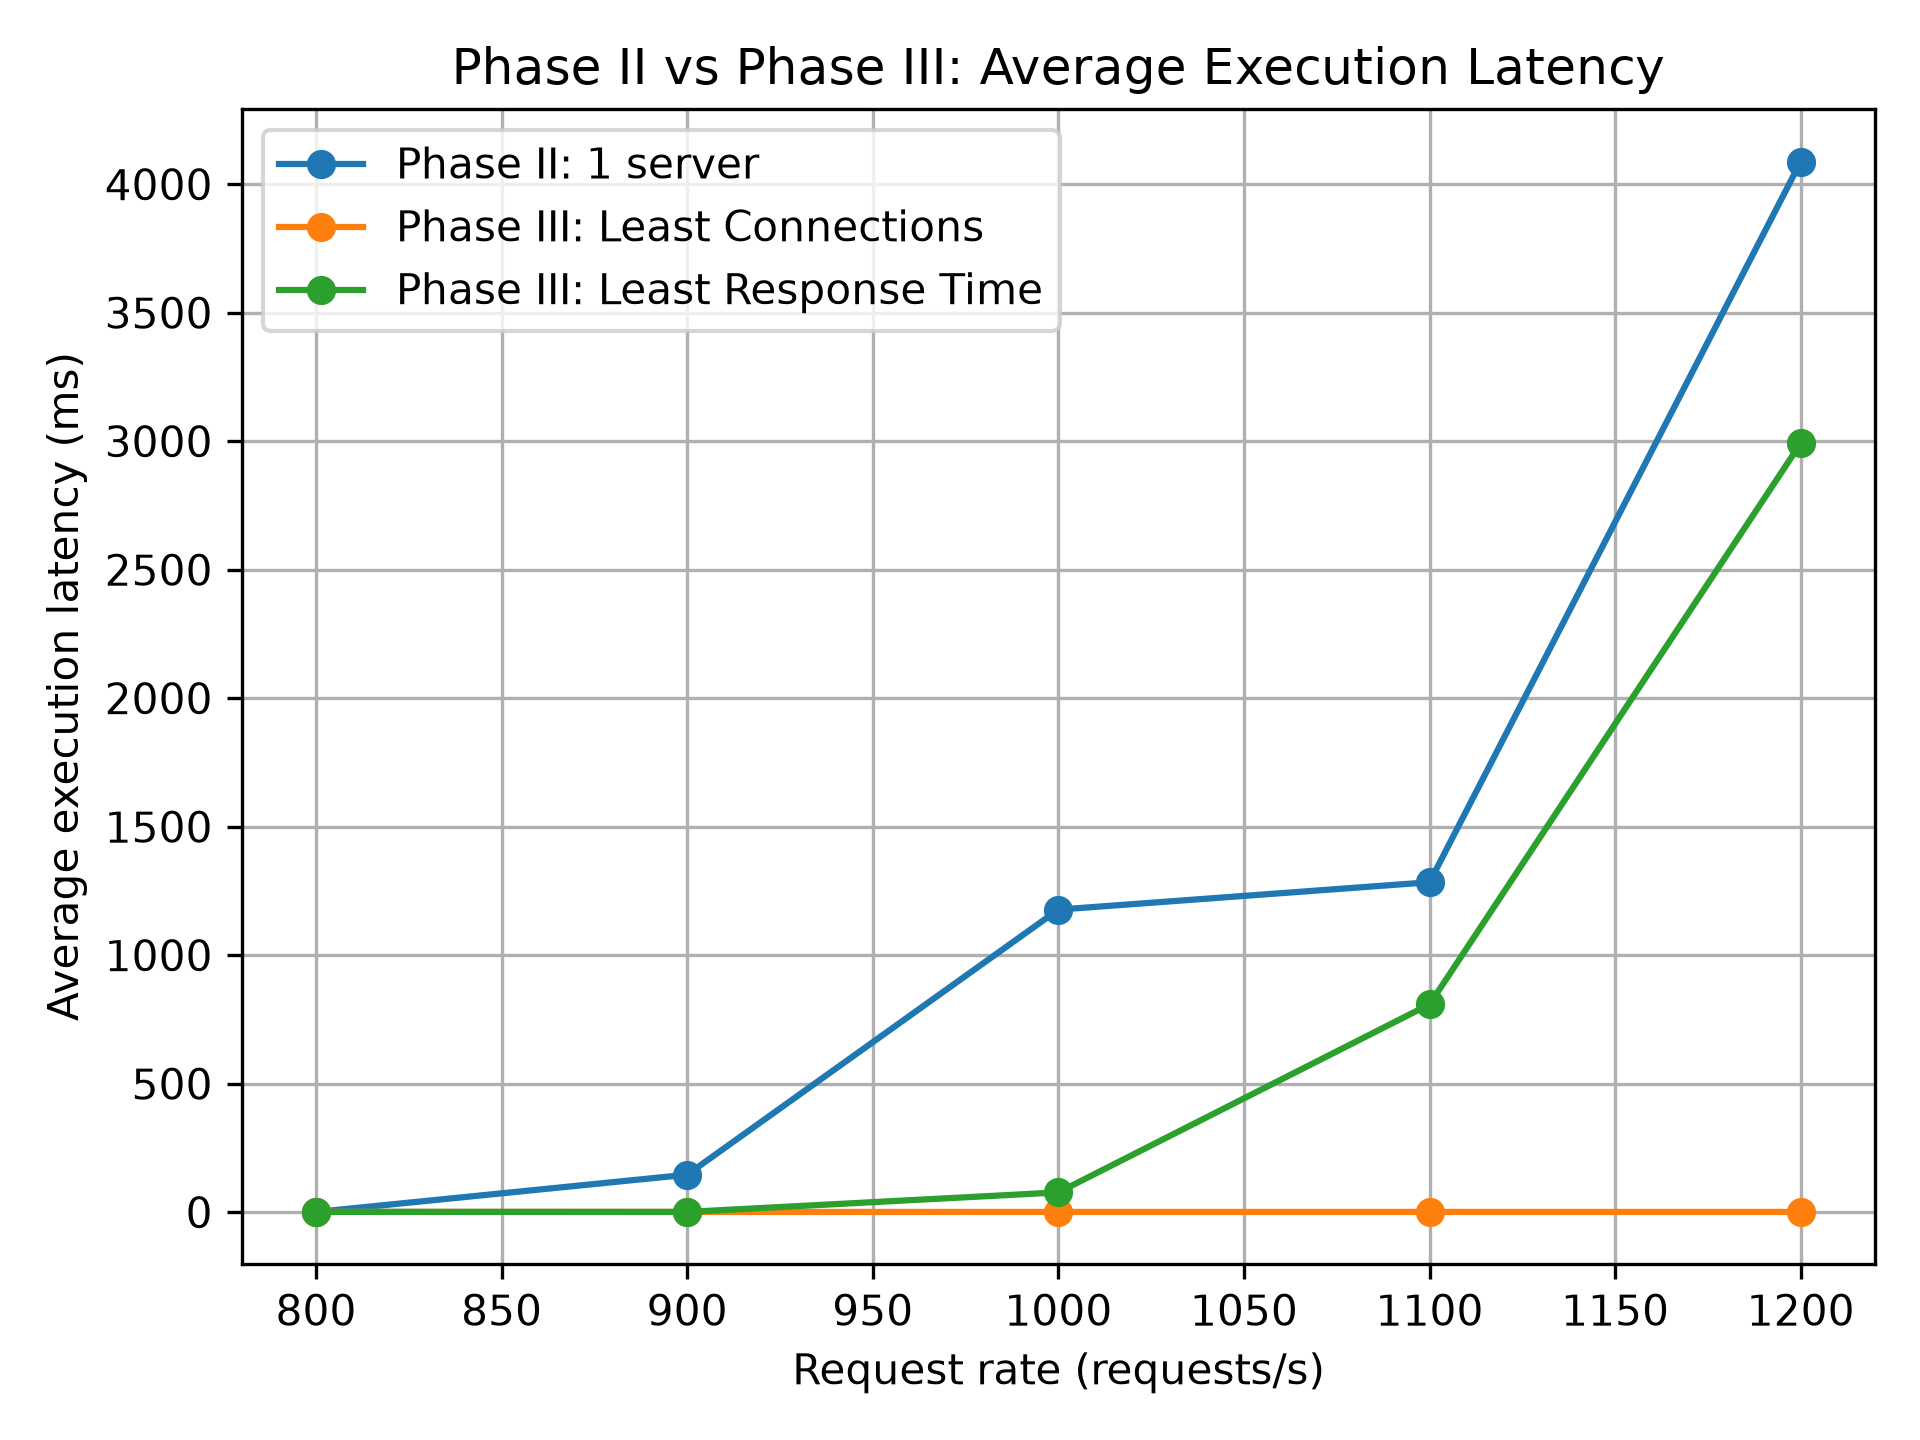
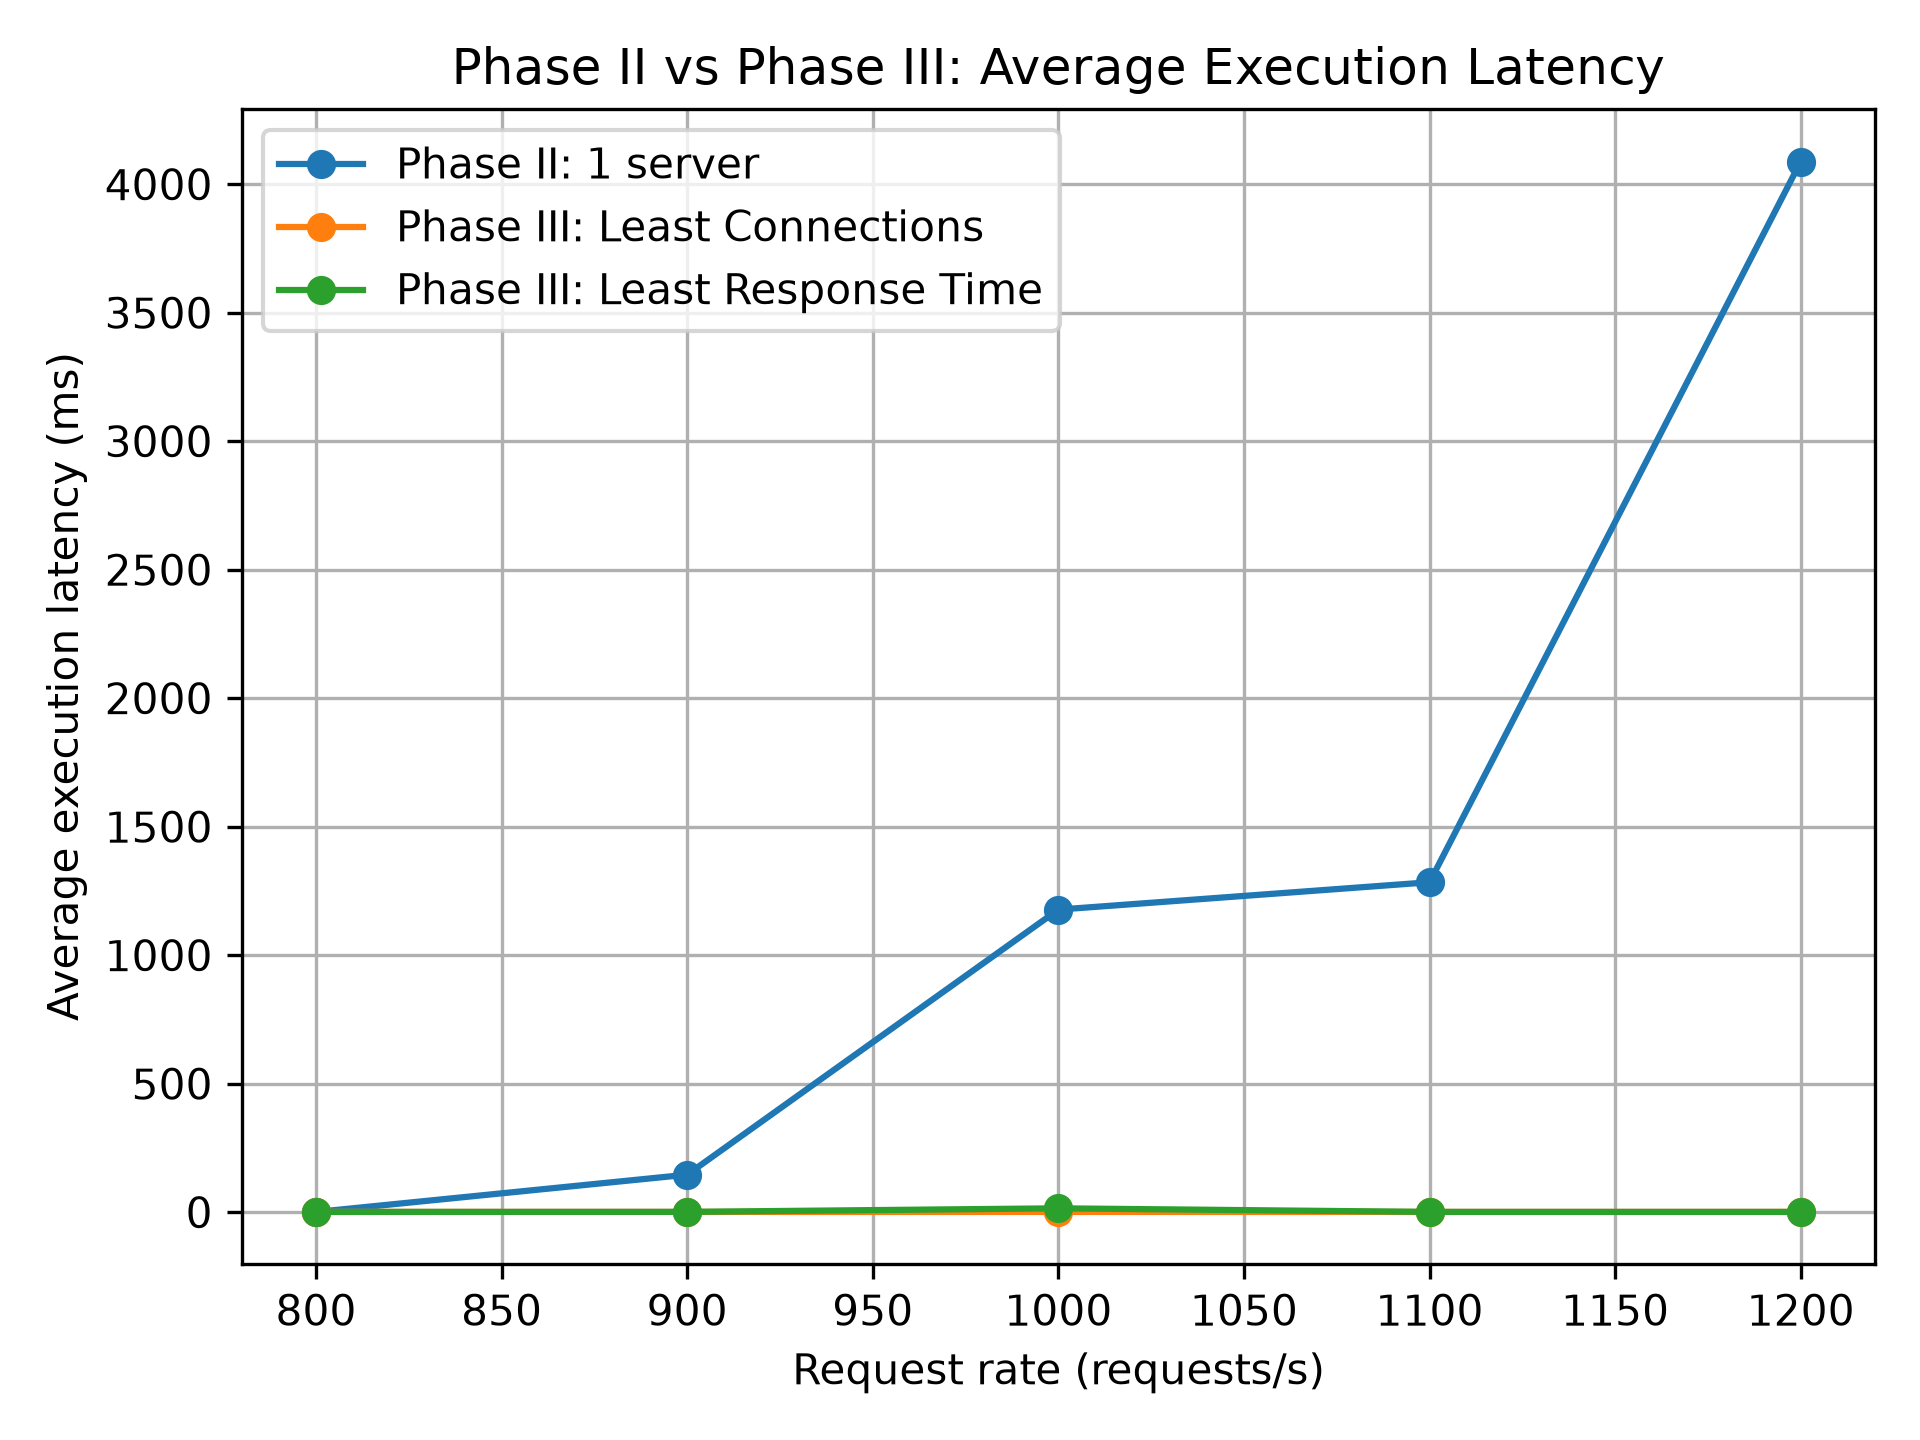
finished Phase III implementation

diff --git a/wordCount/benchmark.py b/wordCount/benchmark.py
@@ -1,3 +1,4 @@
+
 import csv
 import math
 import os
@@ -19,7 +20,7 @@ LB_ALGORITHM = os.getenv("LB_ALGORITHM", "least_connections").strip().lower()
 
 TEXT_REFERENCE = "sample2.txt"
 
-# Text file used to investigate 
+# Text file used to investigate
 LOCAL_TEXT_PATH = "texts/sample2.txt"
 
 # Request rates (requests per second)
@@ -27,13 +28,17 @@ REQUEST_RATES = [800, 900, 1000, 1100, 1200]
 
 DURATION_SECONDS = 10
 
-# Even for slow rates, want minimum number of requests 
+# Even for slow rates, want minimum number of requests
 MIN_REQUESTS = 1000
 
 # Number of RPyC connections between client and server
 NUM_CONNECTIONS = 100
 
-# Max wait time for all responses 
+# Replace one of the 100 connections every 0.05 seconds (about 20 new connections/second)
+# New connections are created in a background thread so the request sender is not delayed
+ROTATION_INTERVAL_SECONDS = 0.05
+
+# Max wait time for all responses
 RESPONSE_TIMEOUT_SECONDS = 60
 
 # "cold": every request uses a different keyword -> every request is a cache miss
@@ -42,7 +47,7 @@ CACHE_MODE = "cold"
 
 WARM_KEYWORDS = ["the", "and", "time", "it", "world", "pleasure"]
 
-# 99th percentile latency   
+# 99th percentile latency
 def percentile_99(values):
     sorted_values = sorted(values)
     index = math.ceil(0.99 * len(sorted_values)) - 1
@@ -61,7 +66,7 @@ def load_word_pool():
     if not os.path.isfile(LOCAL_TEXT_PATH): # No text file found, return empty list
         return []
 
-    # Read file, covert to lowercase, extract words, shuffle them according to seed 42
+    # Read file, convert to lowercase, extract words, shuffle them according to seed 42
     with open(LOCAL_TEXT_PATH, "r", encoding="utf-8", errors="ignore") as file:
         text = file.read().lower()
     words = sorted(set(re.findall(r"[a-z]+", text))) # set removes duplicates, sorted does alphabetical ordering
@@ -73,7 +78,6 @@ WORD_POOL = load_word_pool()
 
 # Generate a list of keywords for the experiment (according to total requests)
 def make_keywords(n):
-
     # If warm then return warm keywords repeatedly until n is reached
     if CACHE_MODE == "warm":
         return [WARM_KEYWORDS[i % len(WARM_KEYWORDS)] for i in range(n)]
@@ -85,20 +89,17 @@ def make_keywords(n):
 
 # Prewarm cache by sending requests for warm keywords beforehand
 def prewarm_cache():
-    
     connection = rpyc.connect(SERVER_HOST, SERVER_PORT)
-    for keyword in WARM_KEYWORDS:
-        connection.root.count_word(keyword, TEXT_REFERENCE)
-    connection.close()
+    try:
+        for keyword in WARM_KEYWORDS:
+            connection.root.count_word(keyword, TEXT_REFERENCE)
+    finally:
+        connection.close()
 
-# Create multiple RPyC connections to server and return them
-def open_connections(n):
-    connections = [] # List to hold RPyC connections
-    async_calls = [] # List to hold async calls to server for count_word method
-
-    for _ in range(n):
-        connection = rpyc.connect(SERVER_HOST, SERVER_PORT) # Connect to server
-        
+# Create one RPyC connection and its asynchronous call
+def open_connection():
+    connection = rpyc.connect(SERVER_HOST, SERVER_PORT) # Connect to load balancer
+    try:
         connection.ping() # Ping server
 
         # Create async call for count_word method
@@ -106,18 +107,27 @@ def open_connections(n):
 
         # Start a thread to serve all requests for this connection
         threading.Thread(target=connection.serve_all, daemon=True).start()
+        return {"connection": connection, "async_call": async_call, "pending": 0}
+    except Exception:
+        connection.close()
+        raise
 
-        # Add connection and async_call to lists
-        connections.append(connection)
-        async_calls.append(async_call)
-
-    return connections, async_calls
+# Create multiple RPyC connections to server and return them
+def open_connections(n):
+    connections = [] # List to hold RPyC connections and async calls
+    try:
+        for _ in range(n):
+            connections.append(open_connection())
+    except Exception:
+        close_connections(connections)
+        raise
+    return connections
 
 # Close all RPyC connections
 def close_connections(connections):
-    for connection in connections:
+    for slot in connections:
         try:
-            connection.close()
+            slot["connection"].close()
         except Exception:
             pass
 
@@ -125,9 +135,9 @@ def close_connections(connections):
 def run_experiment(rate):
     print()
     print("=" * 70)
-    print(f"Starting Phase III experiment: " f"{rate} requests/second")
-    print(f"Load-balancing algorithm: " f"{LB_ALGORITHM}")
-    print(f"Cache mode: " f"{CACHE_MODE}")
+    print(f"Starting Phase III experiment: {rate} requests/second")
+    print(f"Load-balancing algorithm: {LB_ALGORITHM}")
+    print(f"Cache mode: {CACHE_MODE}")
     print("=" * 70)
 
     clear_cache() # Clear Redis cache before each experiment
@@ -141,7 +151,12 @@ def run_experiment(rate):
     keywords = make_keywords(number_of_requests)
 
     # Open fresh connections to server for this experiment
-    connections, async_calls = (open_connections(NUM_CONNECTIONS))
+    connections = open_connections(NUM_CONNECTIONS)
+    retired_connections = [] # Old connections stay alive until their outstanding requests finish
+    pool_lock = threading.Lock() # Protects the current connection slots and pending counters
+    stop_rotation = threading.Event()
+    rotation_count = 0
+    rotation_errors = 0
 
     # Threads to handle replies that finish at the same time to prevent modifying writing to arrays simultaneously
     lock = threading.Lock()
@@ -151,56 +166,110 @@ def run_experiment(rate):
     completed = 0
 
     # Callback function to handle responses from server
-    def make_callback(sent_time):
-
+    def make_callback(sent_time, slot):
         # Once response arrived execute this function
         def on_response(result):
             nonlocal completed
             received_time = time.perf_counter()
+            try:
+                _ = result.value # Response (error or count)
+                latency_ms = (received_time - sent_time) * 1000
+                error = None
+            except Exception as exception:
+                latency_ms = None
+                error = str(exception)
+
+            # The old connection can now be closed if it was replaced by a new one
+            with pool_lock:
+                slot["pending"] -= 1
 
             with lock:
-                try:
-                    _ = result.value  # Response (error or count)
-                    latencies.append((received_time - sent_time) * 1000) # Calculate latency in ms
-
-                except Exception as error:
-                    error_messages.append(str(error))
-
+                if error is None:
+                    latencies.append(latency_ms) # Calculate latency in ms
+                else:
+                    error_messages.append(error)
                 completed += 1
                 if completed == number_of_requests:
                     all_done.set()
-
         return on_response
+
+    # Replace connections gradually while requests are running
+    # The request-sending loop never waits for a new connection to be established
+    def rotate_connections():
+        nonlocal rotation_count, rotation_errors
+        next_slot = 0
+
+        while not stop_rotation.wait(ROTATION_INTERVAL_SECONDS):
+            try:
+                new_slot = open_connection() # Load balancer makes a new routing decision
+            except Exception as error:
+                rotation_errors += 1
+                print(f"ROTATION ERROR | {error}")
+                continue
+
+            # Atomically replace one of the 100 available connections
+            # Any requests already sent using the old connection can still finish
+            with pool_lock:
+                old_slot = connections[next_slot]
+                connections[next_slot] = new_slot
+                retired_connections.append(old_slot)
+                next_slot = (next_slot + 1) % NUM_CONNECTIONS
+                rotation_count += 1
+
+                # Only close old connections when they have no outstanding requests
+                ready_to_close = [slot for slot in retired_connections if slot["pending"] == 0]
+                retired_connections[:] = [slot for slot in retired_connections if slot["pending"] > 0]
+
+            # Connection cleanup also runs in the background, not in the request sender
+            close_connections(ready_to_close)
 
     # Load generator
     max_lag_ms = 0.0
     start_time = time.perf_counter()
+    rotation_thread = threading.Thread(target=rotate_connections, daemon=True)
+    rotation_thread.start()
 
-    # Loop to send requests at the specified rate
-    for request_number in range(number_of_requests):
+    try:
+        # Loop to send requests at the specified rate
+        for request_number in range(number_of_requests):
+            # Calculate the target time for the next request based on the rate and the start time
+            target_time = start_time + request_number / rate
 
-        # Calculate the target time for the next request based on the rate and the start time
-        target_time = start_time + request_number / rate
+            # Calculate how long to sleep until the target time is reached
+            sleep_time = target_time - time.perf_counter()
+            if sleep_time > 0:
+                time.sleep(sleep_time)
 
-        # Calculate how long to sleep until the target time is reached
-        sleep_time = target_time - time.perf_counter()
+            # Select async call (from the 100 currently available connections)
+            # The lock ensures rotation cannot remove this connection before we mark its request as pending
+            with pool_lock:
+                slot = connections[request_number % NUM_CONNECTIONS]
+                slot["pending"] += 1
 
-        if sleep_time > 0:
-            time.sleep(sleep_time)
-        else:
-            # Client cannot keep up with requests being sent
-            max_lag_ms = max(max_lag_ms, -sleep_time * 1000)
+            # SENT: the timestamp is taken immediately before the request is written out
+            sent_time = time.perf_counter()
 
-        # Select async call (from the 1-n connections made)
-        async_call = async_calls[request_number % len(async_calls)]
+            # Measure any actual delay relative to the scheduled send time
+            max_lag_ms = max(max_lag_ms, max(0.0, (sent_time - target_time) * 1000))
+            try:
+                result = slot["async_call"](keywords[request_number], TEXT_REFERENCE) # SEND request to server
+                result.add_callback(make_callback(sent_time, slot)) # Run when callback arrives, response from server
+            except Exception as error:
+                with pool_lock:
+                    slot["pending"] -= 1
+                with lock:
+                    error_messages.append(str(error))
+                    completed += 1
+                    if completed == number_of_requests:
+                        all_done.set()
 
-        # SENT: the timestamp is taken immediately before the request is written out
-        sent_time = time.perf_counter()
-        result = async_call(keywords[request_number], TEXT_REFERENCE) # SEND request to server
-        result.add_callback(make_callback(sent_time)) # Run when callback arrives, response from server
+        # Calculate end time for sending requests and elapsed time
+        send_elapsed = time.perf_counter() - start_time
 
-    # Calculate end time for sending requests and elapsed time
-    send_elapsed = time.perf_counter() - start_time
+    finally:
+        # Stop creating new connections immediately after all requests have been sent
+        stop_rotation.set()
+        rotation_thread.join()
 
     # Wait for outstanding replies (nothing is sent anymore, this only collects)
     finished = all_done.wait(timeout=RESPONSE_TIMEOUT_SECONDS)
@@ -211,6 +280,11 @@ def run_experiment(rate):
         errors = len(error_messages)
         lost = number_of_requests - completed
         latencies_snapshot = list(latencies)
+
+    # Close all remaining current and old connections after replies have been collected
+    with pool_lock:
+        remaining_connections = list(connections) + list(retired_connections)
+    close_connections(remaining_connections)
 
     if not finished:
         print(f"WARNING: {lost} replies did not arrive within "
@@ -231,6 +305,7 @@ def run_experiment(rate):
         print("First error:", error_messages[0])
     print(f"Achieved send rate: {achieved_rate:.1f} req/s (target {rate})")
     print(f"Max send lag: {max_lag_ms:.1f} ms")
+    print(f"Connections rotated: {rotation_count}   Rotation errors: {rotation_errors}")
     print(f"Average latency: {average_latency:.3f} ms")
     print(f"P99 latency: {p99_latency:.3f} ms")
 
@@ -250,55 +325,41 @@ def run_experiment(rate):
         "max_send_lag_ms": max_lag_ms,
         "cache_mode": CACHE_MODE,
     }
-
-    close_connections(connections)
-
     return result_row
 
 
 def main():
-
     if LB_ALGORITHM not in {"least_connections", "least_response_time"}:
+        raise ValueError("LB_ALGORITHM must be 'least_connections' or 'least_response_time'")
 
-        raise ValueError("LB_ALGORITHM must be " "'least_connections' or ""'least_response_time'")
-    
     os.makedirs("results", exist_ok=True)
-
     results = []
 
     # Run experiments for each request rate and collect results then close connections
     for rate in REQUEST_RATES:
-
         results.append(run_experiment(rate))
         time.sleep(3)
 
-    # Write to CSV and save results 
-    output_file = (f"results/" f"phase3_" f"{LB_ALGORITHM}.csv")
-
+    # Write to CSV and save results
+    output_file = f"results/phase3_{LB_ALGORITHM}.csv"
     with open(output_file, "w", newline="", encoding="utf-8") as file:
-
         writer = csv.DictWriter(file, fieldnames=[
-                "algorithm",
-                "rate",
-                "requests",
-                "successful",
-                "errors",
-                "average_ms",
-                "p99_ms",
-                "achieved_rate",
-                "max_send_lag_ms",
-                "cache_mode"
-            ]
-        )
-
+            "algorithm",
+            "rate",
+            "requests",
+            "successful",
+            "errors",
+            "average_ms",
+            "p99_ms",
+            "achieved_rate",
+            "max_send_lag_ms",
+            "cache_mode"
+        ])
         writer.writeheader()
-
         writer.writerows(results)
 
     print()
-
-    print(f"Results saved to " f"{output_file}")
-
+    print(f"Results saved to {output_file}")
 
 if __name__ == "__main__":
     main()
